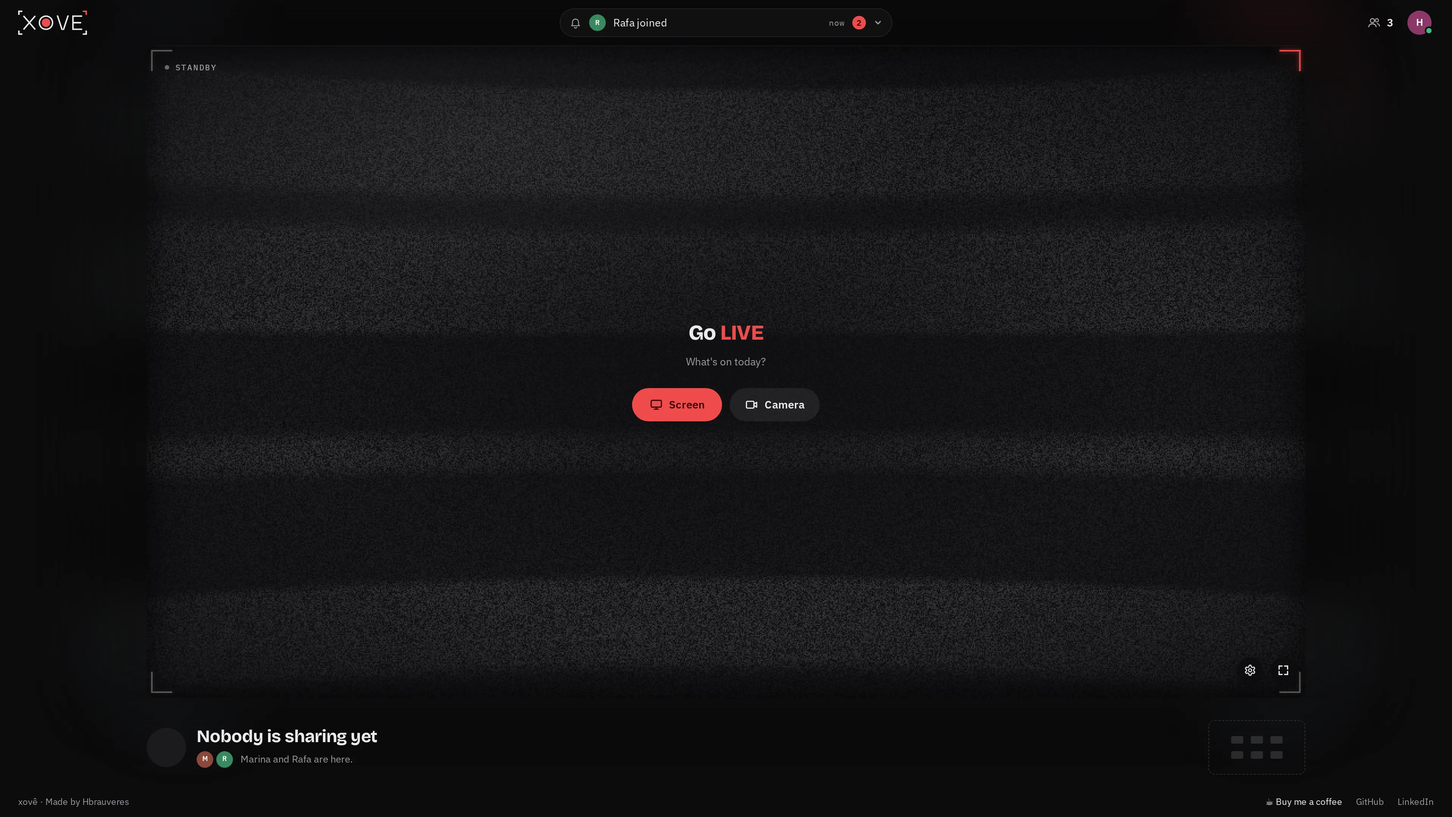
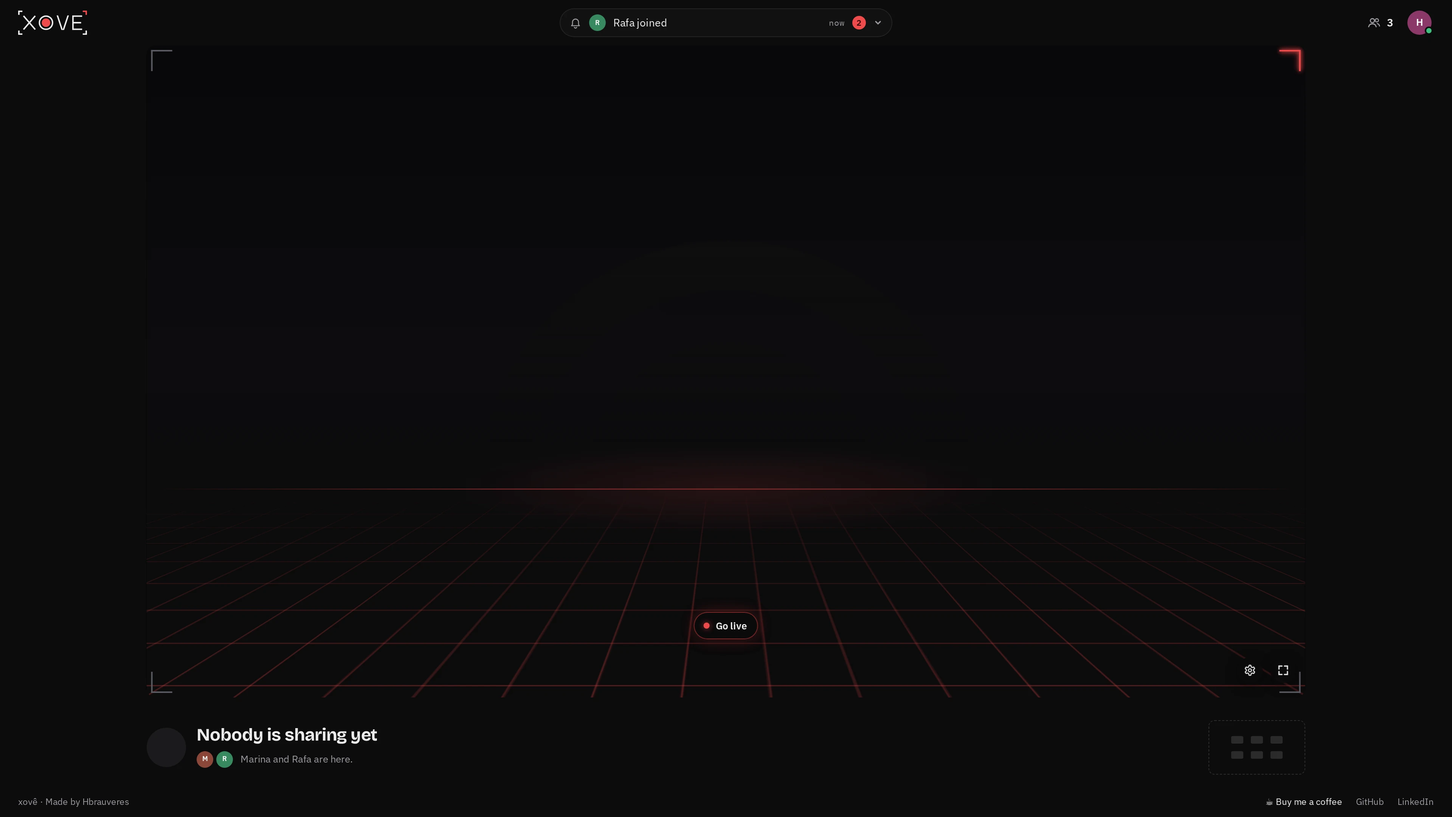
docs(web): the empty stage's new look in the design sheet and the docs (0262-no-static)

diff --git a/docs/design.md b/docs/design.md
@@ -28,9 +28,9 @@ The pictures are shot from the real app (`design-sheet.mjs`, see [Keeping this p
 - **Xovê**, with the circumflex, in every sentence and label. `xove` only where an accent can't go: the domain (`xove.app`), repos, code, image and container names. The wordmark is written in capitals, **XOVE**, and its red corner stands in for the ^.
 - **Short, plain sentences**, in sentence case: "Share your screen", "Full-screen view", "Nobody live · 0 of 6 · 6 free", "See you on the big screen." No exclamation marks, no jargon.
 - **An invitation, not an order:** under a call to act, a friendly question ("What's on today?"), never a command about someone's camera or screen.
-- **One word on a button where the context says the rest:** "Screen" and "Camera" under "Go LIVE"; the button's spoken name says the whole act ("Share your screen", "Turn on your camera").
+- **One word on a button where the context says the rest:** "Screen" and "Camera" on the player's own buttons; the button's spoken name says the whole act ("Share your screen", "Turn on your camera").
 - **As short as they can be:** a call to act says the act ("Go LIVE"); a state says plainly what is ("Nobody is sharing yet").
-- **"Go LIVE" is said one way everywhere:** LIVE in capitals and in the accent red, like the room's LIVE marks, on the sign-in page and on the standby screen. It's written as the word ("live") and set in capitals by its style, so a screen reader says the word, not its letters.
+- **"Go LIVE" is said one way everywhere:** LIVE in capitals and in the accent red, like the room's LIVE marks, on the sign-in page. It's written as the word ("live") and set in capitals by its style, so a screen reader says the word, not its letters.
 - **Public words** (the sign-in page, and any page someone sees before the room): a short headline with personality ("Go **LIVE** with your friends."), then one short line with substance: what you do and why it's good ("Share your screen or camera in sharp, fast streams. Watch them play, hang out, help out. Invite only.").
 - **Say what happens, then what to do:** "The room is full. You're 2nd in line." A disabled control says why in its tooltip.
 - **The middle dot (·)** joins short facts on one line: "Marina · Screen", "3 of 6 live · 3 free".
@@ -98,7 +98,7 @@ Dark only: Xovê is a room for watching screens, so the chrome stays out of the 
 - **The speaking greens**, only for "this person is speaking": the tube `#2bcd68` at 85% (`--green-light-85`), the icon `#45e087` (`--green-lighter`), the glow `#16a34a` (`--green-*`). Nothing else is green but "connected" and a mic level that's sent.
 - **Red is rare on purpose:** it means the brand or something live. Sliders are white and the switch is grey until it's on.
 - **Avatars** without a photo get the person's own hue: `hsl(<hue> 42% 38%)` with a white initial. The hue comes from the person's id, so **everyone has one colour on every screen, me included**: I see myself in the colour my friends see me in.
-- **The empty stage** is one flat dark (`--grey-15`, `#0f0f11`: a gradient this dim shows bands); its corners glow softly, each in its own colour (a slightly blue grey, the top right red).
+- **The empty stage** is a near-black (`--grey-11`, `#0b0b0c`) under a sky a shade deeper at the top; the eye on its horizon is `--grey-15-flat` (`#0f0f0f`), just off it; its corners are a plain grey (`--grey-90`), the top right a red neon tube. Nothing round it glows.
 - **The ambilight** takes its colour from the picture, never from the palette.
 - **Contrast:** every text colour reaches 4.5:1 on every surface, 3:1 for faint labels. `npm run check:styles` computes it on every push ([Testing](testing.md#the-style-check)).
 
@@ -110,7 +110,7 @@ Dark only: Xovê is a room for watching screens, so the chrome stays out of the 
 | --- | --- | --- |
 | **Bricolage Grotesque** 500 / 700 / 800 | `--font-display` | Headings, the name of who's on the stage, big statements ("Go LIVE") |
 | **IBM Plex Sans** 400 / 500 / 600 | `--font-body` | Everything else: body, buttons, names in lists |
-| **IBM Plex Mono** 400 / 500 | `--font-mono` | Counters and times: LIVE, `1:12:41`, section labels like "LIVE NOW", the standby screen's "Standby" |
+| **IBM Plex Mono** 400 / 500 | `--font-mono` | Counters and times: LIVE, `1:12:41`, section labels like "LIVE NOW" |
 
 | Size token | rem | px | Typical use |
 | --- | --- | --- | --- |
@@ -164,8 +164,10 @@ Body line height is 1.5; headings balance their lines (`text-wrap: balance`). Fo
 | The cue: a control pointed at (a sharp red border pulsing in place, with a slight glow) | two 1 s pulses, then lit until the next press; still with reduced motion | ease-in-out |
 | A list unrolling from its pill, its options fading in by their distance (40 ms apart), and rolling back | 220 ms; 150 ms back | `cubic-bezier(0.2, 0.8, 0.2, 1)`; ease-in back |
 | The soft light behind an option pointed at | 160 ms | ease |
-| The standby static: its bands rolling down (24 px a second on a desktop's stage), swaying and shimmering | 20 updates a second; still with reduced motion | — |
-| The TV turning on: a point, a line, the bloom (peak at about 380 ms), the band opening from the middle | 900 ms, once a visit; none with reduced motion | `cubic-bezier(0.2, 0.8, 0.2, 1)` and kin |
+| The empty stage's grid sliding toward us, one cell at a time, without end | one cell every 3.2 s, transform only; still with reduced motion | linear |
+| The empty stage's neon corner flickering: a double blink, a single drop, a long stutter, each straight back on | an 11 s rhythm, each change tens of ms, opacity only; lit and still with reduced motion | `cubic-bezier(0.4, 0, 0.2, 1)` |
+| Go live's halo breathing on the empty stage | 3 s, opacity only; still with reduced motion | `cubic-bezier(0.4, 0, 0.2, 1)` |
+| The empty stage's scene shifting a few px away from the pointer | 900 ms, transform only; none with reduced motion | `cubic-bezier(0.2, 0.8, 0.2, 1)` |
 | A new activity in the pill | 350 ms | ease |
 | The small view's buttons fading | 250 ms | ease |
 | The small view folding into its corner button (its box onto the button) | 220 ms, transform only; none with reduced motion | `cubic-bezier(0.2, 0.8, 0.2, 1)` |
@@ -305,7 +307,7 @@ The colours above, the type scale and the fonts are tokens too. The rest:
 
 ### Action pills and label pills
 
-- **An action pill** (`ActionPill`) is a button with words, round at both ends: **M 34** over a stream (Go live) or **L 44** where it's the screen's main choice (the empty stage's Screen and Camera). Three fills: **glass** (the round buttons' base), **red** (the first way, `--accent`) and **soft** (a second way, a light translucent fill). An icon or the [live dot](#avatars-and-live) comes first. Unavailable: 45%, saying why, like a round button.
+- **An action pill** (`ActionPill`) is a button with words, round at both ends: **M 34** over a stream and on the empty stage (Go live) or **L 44** where it's the screen's main choice. Three fills: **glass** (the round buttons' base), **red** (the first way, `--accent`) and **soft** (a second way, a light translucent fill). An icon or the [live dot](#avatars-and-live) comes first. Unavailable: 45%, saying why, like a round button.
 - **A small button with words is the dark pill** (a rule for the whole app): `ActionPill`'s **dark** fill, the chosen segment's pill (`--sel-bg`, its shadow, lighter when pointed at), white semibold words, one size per place: **S 30** in the drop-up's glass row (Change over the video) and **XS 26** in a panel (Change in the settings' window row, Test beside the mic's level). **On** (pressed, Test while it plays) it's white with dark words. Never a round button with words. (Change: [the settings' Screen tab](#the-settings-panel); Test: [the Voice tab](#the-settings-panel).)
 - **A label pill** (`LabelPill`) names what a picture shows or says something about it (a preview's "Rafa · screen", the camera preview's "Only you see this"): **22 px** glass, 500 weight, a face or an icon first when it names someone, words alone otherwise. It isn't a button: the picture under it is. **Any label over a picture is one.**
 - **A status or a role is a label pill too**, in red: **soft** (the accent's tint, red semibold words) for a status on a page, at the page's size (**M**): "Waiting for approval", its [live dot](#avatars-and-live) beating first; **solid** (the accent, deep-red words) for a role in a row (**S**): "Admin". Never a pill of its own.
@@ -550,18 +552,16 @@ Xovê is for computers: laptops and desktops get the app, in one layout (theater
 
 ![A tall picture: the box keeps the column's width, the controls on the picture](images/design/stage-tall-picture.png) ![The empty room on a desktop](images/design/room-empty-desktop.png)
 
-**Nobody live, a TV on standby:**
+**Nobody live, a synthwave stage:**
 
-- **Viewfinder corners**, the screen's only frame: close to the stage's own edges (the stage's buttons sit inside the bottom-right one), the top right red as in the logo. Finer and fainter on small stages (18 px arms, 1.5 px), and each **glows softly in its own colour**.
-- **Their light outside:** each corner glows outward too, a blurred L just outside the stage, a fade with no edge; still, following the ambilight's switch and brightness.
-- **"Standby"**, still, in small grey mono capitals with a grey dot (never red: that would mean recording), on larger stages only. Nothing else imitates equipment: no clock, meter, ruler, format tags or room number.
-- **The way to start**, with no frame of its own, in the stage's middle both ways: "Go **LIVE**" (LIVE in the accent), "What's on today?", then one row, centred: **Screen** and **Camera** alone (one word each, two pills of one width, the first red, the second a soft fill). The **settings** stay in the stage's bottom-right corner beside fullscreen, as over a stream, and open from there. A screen the browser can't share is the same pill, greyed, with its reason.
-- **The TV's static** behind it all: snow in soft horizontal bands (their gaps at 40% of the bands' brightness), shown at 17% over the stage's dark and darker behind the heading. The bands roll down together keeping their sizes, the picture sways a little as a TV losing its vertical hold, and the bands shimmer, about 15 times a second (once 50 ms have passed, every fourth frame of a 60 Hz screen). The grain is 1.5 px on a desktop's stage, finer on smaller ones (down to 0.75 px) and coarser on wider ones, keeping about 1 066 grains across, so a 4K or ultrawide screen costs what a desktop does; the bands are a share of the stage's height, so a small stage shows the same picture smaller. Still for reduced motion.
-- **Curved glass, 90s style:** square corners; the glass darker towards its edges, a soft sheen high on the left, a faint line of light along the top; the bands bow gently towards the sides. Not a fisheye.
-- **The static lights the room:** its bands' light spills onto the page round the stage as they roll, measured from the static itself, so it's never brighter than the screen; it follows the ambilight's switch and brightness.
-- **The TV turns on** the first time the stage stands by in a visit, in 0.9 s, eased and soft-edged: a point of light, a glowing line drawn across, a white bloom filling the screen and lighting the wall, then a grey band that opens from the middle while dimming onto the static. White, with only a hint of the red at the glow's edges. Never again when the last stream stops; none for reduced motion.
-
-![The TV turning on, every 50 ms](images/design/turn-on.png)
+- **Viewfinder corners**, the screen's only frame: close to the stage's own edges (the stage's buttons sit inside the bottom-right one), plain grey (`--grey-90`), finer on small stages (18 px arms, 1.5 px). No glow round them.
+- **The top right is a neon tube:** the red corner and a tight glow hugging its two strips where they meet, never a round light, over the grey corner. It flickers like a tube on its way out: lit, then a quick burst and straight back on, three kinds in an 11 s rhythm (a double blink, a single drop, a long stutter), each change tens of milliseconds. Never a slow fade or a breathing pulse. Off, the grey corner shows, like the other three.
+- **The floor is a synthwave grid:** 1 px lines in the accent at 40%, in a gentle perspective, sliding toward us one cell every 3.2 s without end, fading into a thin red horizon (68% down) with a soft red haze. No sun, no mountains.
+- **The eye of Xovê's mark** (the icon mark's ring and dot, no corners), very large and cut exactly in half by the horizon, as one flat near-black silhouette (`--grey-15-flat`), hidden at the line and appearing little by little upward. It never lights or moves.
+- **One way to start, Go live**, the room's own [action pill](#action-pills-and-label-pills) (M, glass, the live dot first) and its menu (Share your screen, Turn on your camera, Settings), centred on the floor below the horizon so its menu opens upward into the space above it. No words on the stage: the pill says it. A screen the browser can't share is the menu's row, greyed, with its reason. The **settings** also stay in the stage's bottom-right corner beside fullscreen, as over a stream.
+- **Go live's halo hugs it:** a thin red line right on its outside edge and a soft glow going outward from there, never under the pill (nothing shows through its glass) and never a ring standing off it; it breathes.
+- **The scene shifts a touch with the pointer** (up to 10 px across and 6 px up and down, away from it, eased).
+- **Nothing lights the wall:** the ambilight is only for a shared picture. **Nothing is redrawn while it runs:** every motion is a transform or an opacity, so the graphics card moves the layers; with reduced motion, nothing moves.
 
 ### Pages outside the room
 
@@ -643,7 +643,12 @@ Its content stays clear of the phone's bars (the browser's safe areas).
 - **A status or a role is a label pill** in red (soft for a status, solid for a role), never a pill of its own; a dot that beats uses the app's one beat (`@keyframes beat` in `global.css`), as LIVE's does.
 - **Every page outside the room is on the Page shell;** a page of lists is its wide frame, its bar above the main region. The phone notice is the one exception: it stands in for the whole app on a phone, with its own frame clear of the phone's bars.
 - **One exception to the tokens:** Google's sign-in button, white with Google's "G" in Google's own colours, as their rules ask.
-- **A first impression plays once:** an intro (the TV turning on) plays the first time in a visit, never again for the same state, and never for reduced motion.
+- **A first impression plays once:** an intro plays the first time in a visit, never again for the same state, and never for reduced motion.
+- **Light on the wall comes only from a picture** (a rule for the whole app): the ambilight round a shared screen or camera, and nothing else; a screen with nothing playing leaves the wall dark.
+- **One way to start, the same everywhere** (a rule for the whole app): Go live and its menu, wherever starting is offered (over a stream, on the empty stage), never a second set of start buttons.
+- **A halo hugs its control** (a rule for the whole app): a thin line on the control's outside edge and a glow going outward from it, never drawn under a glass control and never a ring standing off it.
+- **A flickering light is a failing tube** (a rule for the whole app): quick bursts and straight back, never a slow fade or a breath; a light that breathes is a halo, not a flicker.
+- **Ambient motion costs nothing to draw** (a rule for the whole app): only transforms and opacity, never a canvas or anything drawn per frame; still with reduced motion.
 
 ## Keeping this page current
 

diff --git a/docs/architecture.md b/docs/architecture.md
@@ -24,10 +24,10 @@ Everything is in `app/src`:
 | `features/admin/` | Admin, its own data: the store (`stores/admin-store/`: both lists, one action at a time, its error kept, both reloaded after each; read through `use-admin`, a store per visit), the page on the Page shell's wide frame with its bar above the main region, the bar (`admin-header/`), the requests (`admin-requests/`, each `admin-request-card/`), the members (`admin-members/`, each `admin-member-row/`, Remove asked first in `admin-remove-confirm/`) |
 | `features/room/stores/room-store/` | The room's store, a unit: the room as data (`room.model.ts`: people by their id, streams, who watches whom, arrivals, the seat, the activity, my streams' steps, changed by pure functions), what the room shows (`room.selectors.ts`), and `RoomStore` (`room.store.ts`): the one place the seat, the streams and entering again are polled, the video room joined, and the room's actions sent; its hooks `use-room-store` (the store, the room, the video) and `use-room-seat` (the seat and its actions), and the helpers only it uses in `utils/` (the streams, the API's answer, the activity's events, a sharer's feed, keeping the same record, waiting for a seat) |
 | `features/room/stores/room-session/` | The room once I'm in, shared with its areas through a context (`RoomSessionProvider`, read with `useRoomSession`): one hook gathers the room from the store (`use-session-core`: what the room shows, `use-room-view`; what I send, `use-my-sending` with my streams, their settings through a queue, the camera's preview and switch, changing the window; keeping my streams and the API in step, `use-stream-sync`; my voice, `use-my-voice`; the activity, `use-activity-feed`; the camera remembered), and one shapes each area's part: the stage's (`use-session-stage`: who's on it, the watch report, who watches, my buttons' controls), the header's (`use-session-header`: the activity, the people, my account), the settings panel's (`use-session-settings`, its open state from `use-settings-open`); the ambilight's settings, remembered (`use-ambilight`). The areas read their part; the pieces inside them keep their props |
-| `features/room/hooks/` | The room's hooks several pieces share: who's big (`use-stage`), what I hear and what's downloaded (`use-hearing`); whether the keyboard was used last (`use-keyboard-last`); the time now, ticking (`use-now`); a track played in a video or audio element at this browser's volume (`use-played-track`), the TV turning on (`use-turn-on`), the settings' anchor the controls hand the stage (`use-settings-anchor`), Go live's width (`use-go-live-width`); a sound's slider opened by a rest of the mouse and closed on leaving (`use-hold-or-rest`), the previews' rows on their layer (`use-preview-tray`), what's fullscreen (`use-fullscreen-element`) |
-| `features/room/utils/` | The helpers several of the room's pieces share, each with its test beside it: the stage pick, hearing, a person's id and name, the first name, an activity event in words, the light's grid, the static's bands and its flicker; a sound's icon, the full room's message (`full-room`, from the stream places), whether a preview has a row and what in it takes Tab |
+| `features/room/hooks/` | The room's hooks several pieces share: who's big (`use-stage`), what I hear and what's downloaded (`use-hearing`); whether the keyboard was used last (`use-keyboard-last`); the time now, ticking (`use-now`); a track played in a video or audio element at this browser's volume (`use-played-track`), the settings' anchor the controls hand the stage (`use-settings-anchor`), Go live's width (`use-go-live-width`); a sound's slider opened by a rest of the mouse and closed on leaving (`use-hold-or-rest`), the previews' rows on their layer (`use-preview-tray`), what's fullscreen (`use-fullscreen-element`) |
+| `features/room/utils/` | The helpers several of the room's pieces share, each with its test beside it: the stage pick, hearing, a person's id and name, the first name, an activity event in words, the light's grid; a sound's icon, the full room's message (`full-room`, from the stream places), whether a preview has a row and what in it takes Tab |
 | `features/room/types/`, `features/room/constants/` | The room's types (the room as data, a person, a stream, a sharer, the activity, the shared hooks' inputs) and its constants (the poll, the activity kept, the room's messages, a slider's rest and leave, the previews' layer, the stream's words) |
-| `features/room/components/stage*/` | The stage, in small pieces, each with its test and stories: the stage itself (`stage/stage/`: its box, in the picture's shape), the player (`stage/stage-player/`: the frame, and in it the picture's layer (`stage/stage-picture-layer/`, the view's size and place) holding every control over the picture, so they sit on it whatever its shape; a hook each for the controls fading when the mouse rests, fullscreen, where the settings open, the quality asked of the big stream, going to my stream when I start one, and what fits the picture (`use-picture-fit`: its width, `use-picture-width`, and Go live's, which Go live reports through `features/room/hooks/use-go-live-width.hook.ts`; what folds into "…" and my own row's size and place, `use-row-fold` from the plain `row-fold.util`; whether the small view fits)), what plays (`stage/stage-view/`, `stage/stage-picture/`, `stage/stage-screen-video/`, `stage/stage-facecam/`, `stage/stage-notice/`), the light round it (`stage/stage-light/`, its maths in its `utils/`), the empty stage (`stage/stage-empty-stage/`, a TV on standby, with `stage/stage-start-buttons/`, `stage/stage-static-noise/`, `stage/stage-static-glow/` and `stage/stage-corner-glow/`; the bands both read in `features/room/utils/static-bands.util.ts`, so they roll together), the bar of controls (`stage-controls/stage-controls/`): over someone else's stream the viewer bar (`stage-controls/stage-viewer-bar/`: what I hear at the left, each sound `stage-controls/stage-viewer-sound/` on the one sound button `stage-controls/stage-sound-button/`; my mic or Go live at the right, `stage-controls/stage-viewer-me/` (my mic the one `stage-controls/stage-my-mic/`, in my own row too) and `stage-controls/stage-go-live/`, its rows `stage-controls/stage-go-live-rows/` in the bar's one menu box `stage-controls/stage-bar-menu/`; while the browser holds the room's sound, `stage-controls/stage-unmute/` in the sounds' place; on a narrow picture "…", `stage-controls/stage-more-menu/`, holding what folded, a folded sound `stage-controls/stage-more-sound/`), over my own my round buttons (`stage-controls/stage-player-buttons/`, each stream `stage-controls/stage-stream-button/`, a live one's drop-up `stage-controls/stage-stream-quick/` with what's shared `stage-controls/stage-screen-source/`, which the settings use too); the fullscreen button (`stage/stage-stage-overlay/`) and, while the small view is folded, the button that opens it (`stage/stage-small-view-button/`); the row under it (`stage-info/stage-info/`: who's on the stage `stage-info/stage-now-watching/`, the other streams `stage-info/stage-also-live/` with each preview `stage-info/stage-live-preview/` and the places taken `stage-info/stage-places/`; a preview's row of buttons on its own layer over the page, `stage-info/stage-preview-tray/` and `stage-info/stage-preview-tray-row/`, its sounds `stage-info/stage-hear-toggles/` with `stage-info/stage-sound-drawer/` and `stage-info/stage-sound-slider/`) and what I hear (`stage/stage-sounds/`, `stage/stage-voice-audio/`). The controls hand the stage their cog and row through a context (`features/room/hooks/use-settings-anchor.hook.ts`), so the settings open over them; nothing searches the page. The view keeps the small view's place and whether the TV has turned on, for the visit; its Hide folds it into the corner button with one move (`stage/stage-player/`'s `use-fold`, none with reduced motion), the focus following; on a picture too narrow for it, it folds by itself, quietly |
+| `features/room/components/stage*/` | The stage, in small pieces, each with its test and stories: the stage itself (`stage/stage/`: its box, in the picture's shape), the player (`stage/stage-player/`: the frame, and in it the picture's layer (`stage/stage-picture-layer/`, the view's size and place) holding every control over the picture, so they sit on it whatever its shape; a hook each for the controls fading when the mouse rests, fullscreen, where the settings open, the quality asked of the big stream, going to my stream when I start one, and what fits the picture (`use-picture-fit`: its width, `use-picture-width`, and Go live's, which Go live reports through `features/room/hooks/use-go-live-width.hook.ts`; what folds into "…" and my own row's size and place, `use-row-fold` from the plain `row-fold.util`; whether the small view fits)), what plays (`stage/stage-view/`, `stage/stage-picture/`, `stage/stage-screen-video/`, `stage/stage-facecam/`, `stage/stage-notice/`), the light round it (`stage/stage-light/`, its maths in its `utils/`), the empty stage (`stage/stage-empty-stage/`: the corners, the neon, the room's own Go live, the scene's shift with the pointer; its scene `stage/stage-empty-scene/`, the grid, the eye and the horizon in CSS, nothing drawn per frame), the bar of controls (`stage-controls/stage-controls/`): over someone else's stream the viewer bar (`stage-controls/stage-viewer-bar/`: what I hear at the left, each sound `stage-controls/stage-viewer-sound/` on the one sound button `stage-controls/stage-sound-button/`; my mic or Go live at the right, `stage-controls/stage-viewer-me/` (my mic the one `stage-controls/stage-my-mic/`, in my own row too) and `stage-controls/stage-go-live/`, its rows `stage-controls/stage-go-live-rows/` in the bar's one menu box `stage-controls/stage-bar-menu/`; while the browser holds the room's sound, `stage-controls/stage-unmute/` in the sounds' place; on a narrow picture "…", `stage-controls/stage-more-menu/`, holding what folded, a folded sound `stage-controls/stage-more-sound/`), over my own my round buttons (`stage-controls/stage-player-buttons/`, each stream `stage-controls/stage-stream-button/`, a live one's drop-up `stage-controls/stage-stream-quick/` with what's shared `stage-controls/stage-screen-source/`, which the settings use too); the fullscreen button (`stage/stage-stage-overlay/`) and, while the small view is folded, the button that opens it (`stage/stage-small-view-button/`); the row under it (`stage-info/stage-info/`: who's on the stage `stage-info/stage-now-watching/`, the other streams `stage-info/stage-also-live/` with each preview `stage-info/stage-live-preview/` and the places taken `stage-info/stage-places/`; a preview's row of buttons on its own layer over the page, `stage-info/stage-preview-tray/` and `stage-info/stage-preview-tray-row/`, its sounds `stage-info/stage-hear-toggles/` with `stage-info/stage-sound-drawer/` and `stage-info/stage-sound-slider/`) and what I hear (`stage/stage-sounds/`, `stage/stage-voice-audio/`). The controls hand the stage their cog and row through a context (`features/room/hooks/use-settings-anchor.hook.ts`), so the settings open over them; nothing searches the page. The view keeps the small view's place and whether the TV has turned on, for the visit; its Hide folds it into the corner button with one move (`stage/stage-player/`'s `use-fold`, none with reduced motion), the focus following; on a picture too narrow for it, it folds by itself, quietly |
 | `features/room/components/settings/` | The settings, an area of the room (ADR-0106), each piece with its test and stories: the panel (`settings-panel/`: the browser's own non-modal `<dialog>` on the shared Panel, its ✕ and Escape; a hook each for sliding in and out, the cue from a live button, the camera's preview while the Camera tab shows, and giving the focus back), the tabs (`settings-tabs/`: the shared `Tabs`, each tab given only what it uses), `settings-screen-tab/`, `settings-camera-tab/`, `settings-voice-tab/` (its switches, the mic's level), the quality and mode pair (`settings-quality-mode/`), the camera's preview (`settings-camera-preview/`, in the stage's `stage-video-frame/`; its problem an `<output>`), the mic test (`settings-mic-test/`: the threshold slider and Test) and a tab's one line (`settings-hint/`); their types and the tabs' list in the room's `types/` and `constants/` |
 | `features/room/components/` | The room's pieces, in area folders (`room/`, `header/`, `queue/`, `stage/`, `stage-controls/`, `stage-info/`), the area in each name, each with its test and stories: the page (`room/room-page/`: my seat or the room laid out, the devices listed from the waiting room on, the sound unlocked by the first click or key, when the room can show), the room's error line (`room/room-error/`: under the stage, or over the player in fullscreen), the queue (`queue/queue-waiting-room/`, and the seat offer `queue/queue-seat-offer/` on the browser's own modal dialog), the footer (`room/room-footer/`), the header (`header/header/`, placing its own pieces from the session), the activity pill (`header/header-activity-pill/`, its moving line `header/header-activity-ticker/`) and list (`header/header-activity-list/`), who's here (`header/header-people-button/`, the seats `header/header-seats/`), my picture and my menu (`header/header-my-picture-button/`, `header/header-my-menu/`) |
 | `shared/stores/floating-store/` | What floats, one thing on screen at a time: `useFloating` tells the store a piece is open and its kind (opened by a click or the keyboard, opened on a mouse rest, a tooltip). The store's rules decide what closes, what's inside another stays, and its one listener takes a press outside and Escape, which returns focus to the button. Each piece holds its own open state; the settings panel stays pinned and doesn't join |

diff --git a/docs/components/today.md b/docs/components/today.md
@@ -188,14 +188,14 @@ When someone shares their screen and their camera, the camera sits over the scre
 ### Empty stage
 
 <table><tr>
-<td><img src="img/today/room-empty-stage.webp" width="720" alt="Nobody is live: a TV on standby"><br><sub>Nobody is live: a TV on standby</sub></td>
+<td><img src="img/today/room-empty-stage.webp" width="720" alt="Nobody is live: the synthwave stage, Go live on the floor"><br><sub>Nobody is live: the synthwave stage, Go live on the floor</sub></td>
 </tr></table>
 
-When nobody shares: a TV on standby, with its static and glow, and the ways to start.
+When nobody shares: a red synthwave grid to a horizon, the eye of Xovê's mark as a dark silhouette on it, the viewfinder corners with the top right a flickering neon tube, and Go live (the room's own pill and menu) on the floor. Nothing lights the wall.
 
 | Today | Goes to | What happens |
 | --- | --- | --- |
-| `features/room/components/stage/stage-empty-stage/`, `stage-start-buttons/`, `stage-static-noise/`, `stage-static-glow/`, `stage-corner-glow/`; the bands in `features/room/utils/static-bands.util.ts`; the TV's turn-on kept by the view, no global | Here | Done (#190) |
+| `features/room/components/stage/stage-empty-stage/` (the corners, Go live, the pointer's shift in its `hooks/` and `utils/`), its scene `stage-empty-scene/` | Here | Done (#190); the TV (static, turn-on, wall lights) replaced by the scene (#262) |
 
 ### Now watching
 
@@ -347,7 +347,7 @@ The shared controls today, and the copies that become one component each.
 | Tooltip | `shared/components/tooltip/`: follows its control while shown; beside a list's option, only for a cut name (#249) | Here, on the floating layer | Done (#187) |
 | Avatar | `shared/components/face/` (was `ui/Avatar.tsx`, `PersonAvatar.tsx`): the room's colour and initial with its rings, the account's photo | Already there | Merged |
 | Round button | `shared/components/icon-button/`, `variant="round"`: one base (glass, a soft shadow, lighter when pointed at, a red keyboard ring, 45% when unavailable, red when on) in two sizes, L 48 for my own buttons and M 34 for every other; its other purposes the header's and close | Here | Done (#191): the player's, the stage's, the overlay's, the mini and the toggle variants are one |
-| Action pill | `shared/components/action-pill/`: a button with words, XS 26, S 30, M 34 or L 44, glass, red, soft or dark (white while on), an icon or the live dot first; Go live, the empty stage's ways to start, and Change and Test (they were a round button with words and the mic test's own pill) | Here | Done (#191, dark #193) |
+| Action pill | `shared/components/action-pill/`: a button with words, XS 26, S 30, M 34 or L 44, glass, red, soft or dark (white while on), an icon or the live dot first; Go live (over a stream and on the empty stage), and Change and Test (they were a round button with words and the mic test's own pill) | Here | Done (#191, dark #193) |
 | Live dot | `shared/components/live-dot/`: the red dot with its glow, S on a tab, M on a pill; beating on a wait ("Waiting for approval") | Here | Done (#193, its beat #194) |
 | Tabs | `shared/components/tabs/`: the sliding marker, the live dot, every pane as tall as the tallest, greyed in place when unusable; the settings' tabs | Here | Done (#193) |
 | Video frame | `features/room/components/stage/stage-video-frame/`: 16:9, black, 8 px corners; Also live's cards and the camera's preview | Here | Done (#193) |
@@ -355,7 +355,7 @@ The shared controls today, and the copies that become one component each.
 | Switch | `shared/components/switch/`: a setting's row, 30 px, its words and the switch; my menu and the Voice tab (the tab restyled it) | Already there | Merged; its row #193 |
 | Icons | `shared/components/icon/` and its drawings in `shared/constants/icons.constants.ts` (was `stage/icons.tsx`, `room/ActivityIcon.tsx` and inline drawings) | Already there | Merged |
 | LIVE badge | `shared/components/live-badge/`: beside who's on the stage, and over my preview | Already there | Merged |
-| Headline | `shared/components/headline/`: the big statement with its key words in the accent and in capitals (sign-in, request access, the phone notice, the empty stage) | Already there | Merged; request access and the phone notice on it #194 |
+| Headline | `shared/components/headline/`: the big statement with its key words in the accent and in capitals (sign-in, request access, the phone notice) | Already there | Merged; request access and the phone notice on it #194 |
 | Toast | `shared/components/toast/`, its state `shared/stores/toast-store/` | Here | Done (#188) |
 | Page shell | `shared/components/page-shell/`: home, request access, the waiting room, the loading line, and admin's wide frame with its bar above the main region | Here | Done (#188, wide #194) |
 | Person row | `shared/components/person-row/`: a face, the name, a quiet line, something at the end; request access's account, admin's requests and members, my menu, the people list (each drew its own) | Here | Done (#194) |

diff --git a/docs/testing.md b/docs/testing.md
@@ -61,9 +61,9 @@ Most tests render a real page, or the whole app at a URL (`renderApp`, `testing/
 - **The modal dialog:** jsdom has `<dialog>` but not `showModal()` or `close()`; `testing/setup.ts` gives them (open, and the first control focused, as the browser does). The page behind it and Escape are the browser's, checked in the e2e cases.
 - **No animations:** jsdom has no `element.animate`, so `testing/setup.ts` takes away any a test gave it; where the browser can't animate, the small view just folds. A test of the move defines its own `animate`.
 - **The app's settings:** `testing/setup.ts` resets what `/config.json` gave (`appConfig.reset()`) after each test; a test that needs a number of places loads its own.
-- **No canvas:** jsdom has none, so `testing/setup.ts` makes every canvas give no drawing context; what draws (the ambilight, the standby screen's static) does nothing in tests. A test of the drawing stubs its own context: `recordCanvases()` (`testing/factories/canvas.factory.ts`) records what the stage light asks of it (videos drawn, blurs, cuts, never a pixel read), with `playingVideo()`; how it looks is checked in a real browser.
+- **No canvas:** jsdom has none, so `testing/setup.ts` makes every canvas give no drawing context; what draws (the ambilight) does nothing in tests. A test of the drawing stubs its own context: `recordCanvases()` (`testing/factories/canvas.factory.ts`) records what the stage light asks of it (videos drawn, blurs, cuts, never a pixel read), with `playingVideo()`; how it looks is checked in a real browser.
 
-The room's wiring tests check that a click reaches the store, LiveKit and the API, and the screen shows the result; each sits beside the area or piece it wires (the stage, my buttons, the header, the row under the stage…), which `renderInRoom(<Stage />)` (`testing/factories/room-render.factory.tsx`) renders over the real room session on the fakes, once I'm seated; the page's own test keeps what crosses its areas (the seat, joining, the activity putting a stream on the stage, the room's errors). An area's own tests and stories give it a session from `aRoomSession()` (`testing/factories/room-session.factory.ts`) through `RoomSessionContext`, with no store behind it. What decides (the model, the hooks, the services) is tested in its own unit. They run on a fixed fake clock (`onFakeClock()` in a `beforeEach`, and `clockUser()`, a `userEvent` that moves it); a delay is passed with `pass(<the app's constant>)`, never waited out. From `features/room/components/stage/stage/stage.component.test.tsx`: Ana and Bruno share, and once my stage has been still for a second, the page tells the API whom I watch.
+The room's wiring tests check that a click reaches the store, LiveKit and the API, and the screen shows the result; each sits beside the area or piece it wires (the stage, my buttons, the header, the row under the stage…), which `renderInRoom(<Stage />)` (`testing/factories/room-render.factory.tsx`) renders over the real room session on the fakes, once I'm seated; the page's own test keeps what crosses its areas (the seat, joining, the activity putting a stream on the stage, the room's errors). An area's own tests and stories give it a session from `aRoomSession()` (`testing/factories/room-session.factory.ts`) through `RoomSessionContext`, with no store behind it. What decides (the model, the hooks, the services) is tested in its own unit. They run on a fixed fake clock (`onFakeClock()` in a `beforeEach`, and `clockUser()`, a `userEvent` that moves it); a delay is passed with `pass(<the app's constant>)`, never waited out. A stream starts as a person starts it, through `startFrom()` (`testing/factories/stage-steps.factory.tsx`): its button on the stage, or, with nobody live, the row of Go live's menu. From `features/room/components/stage/stage/stage.component.test.tsx`: Ana and Bruno share, and once my stage has been still for a second, the page tells the API whom I watch.
 
 ```tsx
 it("reports whose stream is on my stage, once it settles", async () => {

diff --git a/docs/media.md b/docs/media.md
@@ -90,6 +90,6 @@ The picture's own edges glow around the stage, like a TV's ambient light. It's d
 - **A grid of square cells** follows the stage's shape (`gridFor`, in `features/room/utils/light-grid.util.ts`): 64 × 36 at 16:9, 36 × 64 for a portrait picture, at most 96 along the longer side. Round it, the glow reaches 16 cells, then a 3-cell margin, at 2 px a cell (`glowLayout`).
 - **Each update** draws the picture in nine pieces (`edgeDraws`): the whole picture under the stage, its edge strips stretched outward, and its corner patches stretched into the corners. It draws them over the last update at partial opacity, which eases the light with a 120 ms time constant (`easeFor`). Then it blurs the result once and cuts it with a fade mask made once per grid (`fadeMask`): the light falls to exactly zero before the margin, with a fixed grain so it doesn't show bands.
 
-**When it updates** (`startFrameLoop`, under `use-light-drawing`): with the screen's refresh (`requestAnimationFrame`, at most 60 times a second), only while the tab is visible, the video plays and the ambilight is on. With reduced motion it updates twice a second instead, a gentle step each time. With nobody live there's no ambilight: the empty stage's corners glow on their own (still CSS: a blurred L at each corner, following the ambilight's switch and brightness).
+**When it updates** (`startFrameLoop`, under `use-light-drawing`): with the screen's refresh (`requestAnimationFrame`, at most 60 times a second), only while the tab is visible, the video plays and the ambilight is on. With reduced motion it updates twice a second instead, a gentle step each time. With nobody live there's no ambilight, and nothing else lights the wall.
 
 **What it costs:** one small canvas draw and one blur per frame while a video plays. The ambilight's switch and brightness are in my menu; `features/room/stores/room-session/hooks/use-ambilight.hook.ts` holds them and remembers each change.

diff --git a/README.md b/README.md
@@ -19,7 +19,7 @@ This repo is the web app: React 19 and TypeScript, talking to [`xove-api`](https
 
 | | |
 | --- | --- |
-| ![Nobody live on a desktop: the stage as a camera waiting](docs/images/design/room-empty-desktop.png) | **The room, nobody live.** The stage as a camera waiting, its corners glowing, "Go LIVE", "What's on today?" and the ways to start |
+| ![Nobody live on a desktop: the synthwave stage and Go live](docs/images/design/room-empty-desktop.png) | **The room, nobody live.** A red synthwave grid to the horizon, the eye of Xovê's mark rising from it, a neon corner flickering, and Go live on the floor |
 | ![A tall picture on the stage, the controls at its corners](docs/images/design/stage-tall-picture.png) | **A tall picture.** The stage takes the picture's own shape; the controls fade while a stream plays |
 | ![The screen phones and tablets see](docs/images/design/phone-notice.png) | **On a phone or a tablet.** "See you on the big screen.": Xovê is for laptops and desktops for now |
 
